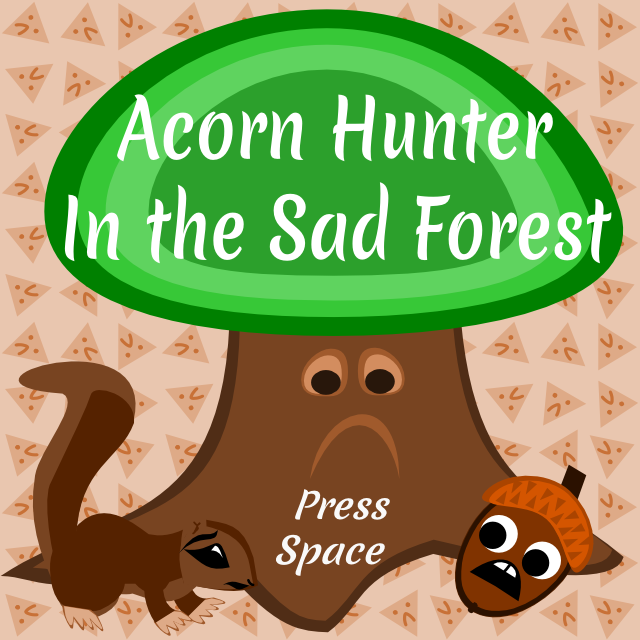
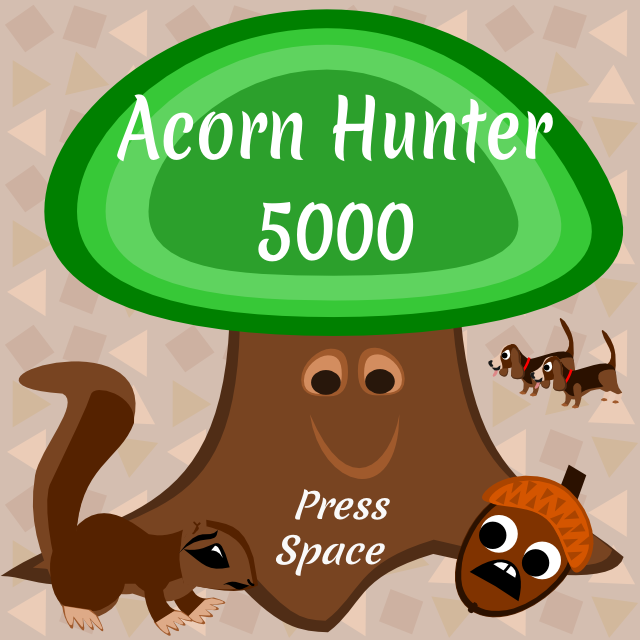
FINAL COMMIT ITS DONE

diff --git a/js/main.js b/js/main.js
@@ -1,5 +1,5 @@
 // Generated by CoffeeScript 1.6.3
-var AfterDeathRestartGameTransitionState, AfterLevelCompletedTransitionState, Game, GameOverScreenState, GameStartTransitionState, GameState, PlayState, TitleScreenState, _ref, _ref1, _ref2, _ref3, _ref4, _ref5,
+var AfterDeathRestartGameTransitionState, AfterLevelCompletedTransitionState, Game, GameOverScreenState, GameStartTransitionState, GameState, InstructionsScreenState, PlayState, TitleScreenState, _ref, _ref1, _ref2, _ref3, _ref4, _ref5, _ref6,
   __hasProp = {}.hasOwnProperty,
   __extends = function(child, parent) { for (var key in parent) { if (__hasProp.call(parent, key)) child[key] = parent[key]; } function ctor() { this.constructor = child; } ctor.prototype = parent.prototype; child.prototype = new ctor(); child.__super__ = parent.prototype; return child; };
 
@@ -71,8 +71,7 @@ TitleScreenState = (function(_super) {
 
   TitleScreenState.prototype.keyUp = function(key) {
     if (key === 'space') {
-      window.soundManager.stopAll();
-      return game.pushState(GameStartTransitionState, {
+      return game.pushState(InstructionsScreenState, {
         prevScreen: this.cq.getImageData(0, 0, Game.SCREEN_WIDTH, Game.SCREEN_HEIGHT)
       });
     }
@@ -82,12 +81,62 @@ TitleScreenState = (function(_super) {
 
 })(GameState);
 
+InstructionsScreenState = (function(_super) {
+  __extends(InstructionsScreenState, _super);
+
+  function InstructionsScreenState() {
+    _ref1 = InstructionsScreenState.__super__.constructor.apply(this, arguments);
+    return _ref1;
+  }
+
+  InstructionsScreenState.prototype.create = function(args) {
+    var background, camera;
+    background = this.entityManager.createEntityWithComponents([
+      [
+        'PixelPositionComponent', {
+          x: 0,
+          y: 0
+        }
+      ], [
+        'StaticSpriteComponent', {
+          spriteUrl: 'instructions-screen.png'
+        }
+      ]
+    ]);
+    camera = this.entityManager.createEntityWithComponents([
+      ['CameraComponent', {}], [
+        'PixelPositionComponent', {
+          x: 0,
+          y: 0
+        }
+      ]
+    ]);
+    return this.staticSpriteRenderSystem = new StaticSpriteRenderSystem(this.cq, this.entityManager, this.eventManager, this.assetManager);
+  };
+
+  InstructionsScreenState.prototype.render = function(delta, time) {
+    return this.staticSpriteRenderSystem.draw();
+  };
+
+  InstructionsScreenState.prototype.keyUp = function(key) {
+    if (key === 'space') {
+      window.soundManager.stopAll();
+      return game.pushState(GameStartTransitionState, {
+        prevScreen: this.cq.getImageData(0, 0, Game.SCREEN_WIDTH, Game.SCREEN_HEIGHT)
+      });
+    }
+  };
+
+  return InstructionsScreenState;
+
+})(GameState);
+
 GameStartTransitionState = (function(_super) {
   __extends(GameStartTransitionState, _super);
 
   function GameStartTransitionState() {
-    _ref1 = GameStartTransitionState.__super__.constructor.apply(this, arguments);
-    return _ref1;
+    _ref2 = GameStartTransitionState.__super__.constructor.apply(this, arguments);
+    return _ref2;
   }
 
   GameStartTransitionState.prototype.create = function(args) {
@@ -116,8 +165,8 @@ AfterDeathRestartGameTransitionState = (function(_super) {
   __extends(AfterDeathRestartGameTransitionState, _super);
 
   function AfterDeathRestartGameTransitionState() {
-    _ref2 = AfterDeathRestartGameTransitionState.__super__.constructor.apply(this, arguments);
-    return _ref2;
+    _ref3 = AfterDeathRestartGameTransitionState.__super__.constructor.apply(this, arguments);
+    return _ref3;
   }
 
   AfterDeathRestartGameTransitionState.prototype.create = function(args) {
@@ -127,7 +176,7 @@ AfterDeathRestartGameTransitionState = (function(_super) {
     if (this.args.next === 'next-life') {
       return window.soundManager.play('died-sadsound.wav');
     } else {
-      return window.soundManager.play('no-oo.wav');
+      return window.soundManager.play('died-sadsound.wav');
     }
   };
 
@@ -136,6 +185,9 @@ AfterDeathRestartGameTransitionState = (function(_super) {
       this.delay -= delta;
       if (this.delay <= 0) {
         if (this.args.next === 'next-life') {
+          window.soundManager.play('title-screen-music.ogg', {
+            volume: 40
+          });
           return game.popState();
         } else if (this.args.next === 'game-over') {
           return game.pushState(GameOverScreenState, {
@@ -169,8 +221,8 @@ AfterLevelCompletedTransitionState = (function(_super) {
   __extends(AfterLevelCompletedTransitionState, _super);
 
   function AfterLevelCompletedTransitionState() {
-    _ref3 = AfterLevelCompletedTransitionState.__super__.constructor.apply(this, arguments);
-    return _ref3;
+    _ref4 = AfterLevelCompletedTransitionState.__super__.constructor.apply(this, arguments);
+    return _ref4;
   }
 
   AfterLevelCompletedTransitionState.prototype.create = function(args) {
@@ -210,8 +262,8 @@ PlayState = (function(_super) {
   __extends(PlayState, _super);
 
   function PlayState() {
-    _ref4 = PlayState.__super__.constructor.apply(this, arguments);
-    return _ref4;
+    _ref5 = PlayState.__super__.constructor.apply(this, arguments);
+    return _ref5;
   }
 
   PlayState.prototype.create = function(args) {
@@ -398,8 +450,8 @@ GameOverScreenState = (function(_super) {
   __extends(GameOverScreenState, _super);
 
   function GameOverScreenState() {
-    _ref5 = GameOverScreenState.__super__.constructor.apply(this, arguments);
-    return _ref5;
+    _ref6 = GameOverScreenState.__super__.constructor.apply(this, arguments);
+    return _ref6;
   }
 
   GameOverScreenState.prototype.create = function(args) {
@@ -477,6 +529,7 @@ Game = (function() {
         _this.assetManager.loadImage('dog.png');
         _this.assetManager.loadImage('title-screen.png');
         _this.assetManager.loadImage('game-over-screen.png');
+        _this.assetManager.loadImage('instructions-screen.png');
         _this.assetManager.loadTilemap('level1.json');
         _this.assetManager.loadTilemap('level2.json');
         _this.assetManager.loadTilemap('level3.json');

diff --git a/js/systems.js b/js/systems.js
@@ -52,18 +52,68 @@ GridMovementSystem = (function(_super) {
           gridPosition.justEntered = false;
         }
         dx = dy = 0;
-        if (input.left) {
-          dx -= 1;
+        if (input.left === 'held') {
+          if (input.up === 'hit' || input.down === 'hit') {
+            if (input.up) {
+              dy -= 1;
+            }
+            if (input.down) {
+              dy += 1;
+            }
+          } else {
+            dx -= 1;
+          }
         }
-        if (input.right) {
-          dx += 1;
+        if (input.right === 'held') {
+          if (input.up === 'hit' || input.down === 'hit') {
+            if (input.up) {
+              dy -= 1;
+            }
+            if (input.down) {
+              dy += 1;
+            }
+          } else {
+            dx += 1;
+          }
         }
-        if (dx === 0) {
-          if (input.up) {
+        if (input.up === 'held') {
+          if (input.left === 'hit' || input.right === 'hit') {
+            if (input.left) {
+              dx -= 1;
+            }
+            if (input.right) {
+              dx += 1;
+            }
+          } else {
             dy -= 1;
           }
-          if (input.down) {
+        }
+        if (input.down === 'held') {
+          if (input.left === 'hit' || input.right === 'hit') {
+            if (input.left) {
+              dx -= 1;
+            }
+            if (input.right) {
+              dx += 1;
+            }
+          } else {
             dy += 1;
+          }
+        }
+        if (dx === 0 && dy === 0) {
+          if (input.left) {
+            dx -= 1;
+          }
+          if (input.right) {
+            dx += 1;
+          }
+          if (dx === 0) {
+            if (input.up) {
+              dy -= 1;
+            }
+            if (input.down) {
+              dy += 1;
+            }
           }
         }
         if (dx !== 0 || dy !== 0) {
@@ -979,7 +1029,6 @@ PowerupSystem = (function(_super) {
   PowerupSystem.prototype.update = function(delta) {
     var movement, player, powerup, __, _ref18;
     _ref18 = this.entityManager.getFirstEntityAndComponents(['PlayerComponent', 'PowerupComponent', 'GridMovementComponent']), player = _ref18[0], __ = _ref18[1], powerup = _ref18[2], movement = _ref18[3];
-    console.log(powerup.active);
     if (powerup.active) {
       movement.speed = 0.6;
       powerup.remaining -= delta;
@@ -1076,11 +1125,13 @@ EnemyDamageSystem = (function(_super) {
               }
             }
           }
+          window.soundManager.stopAll();
           game.pushState(AfterDeathRestartGameTransitionState, {
             prevScreen: this.cq.getImageData(0, 0, Game.SCREEN_WIDTH, Game.SCREEN_HEIGHT),
             next: 'next-life'
           });
         } else {
+          window.soundManager.stopAll();
           game.pushState(AfterDeathRestartGameTransitionState, {
             prevScreen: this.cq.getImageData(0, 0, Game.SCREEN_WIDTH, Game.SCREEN_HEIGHT),
             next: 'game-over',
@@ -1239,6 +1290,10 @@ LevelLoaderSystem = (function(_super) {
       if (level.level > 1) {
         return game.pushState(AfterLevelCompletedTransitionState, {
           prevScreen: _this.cq.getImageData(0, 0, Game.SCREEN_WIDTH, Game.SCREEN_HEIGHT)
+        });
+      } else {
+        return window.soundManager.play('title-screen-music.ogg', {
+          volume: 40
         });
       }
     });
